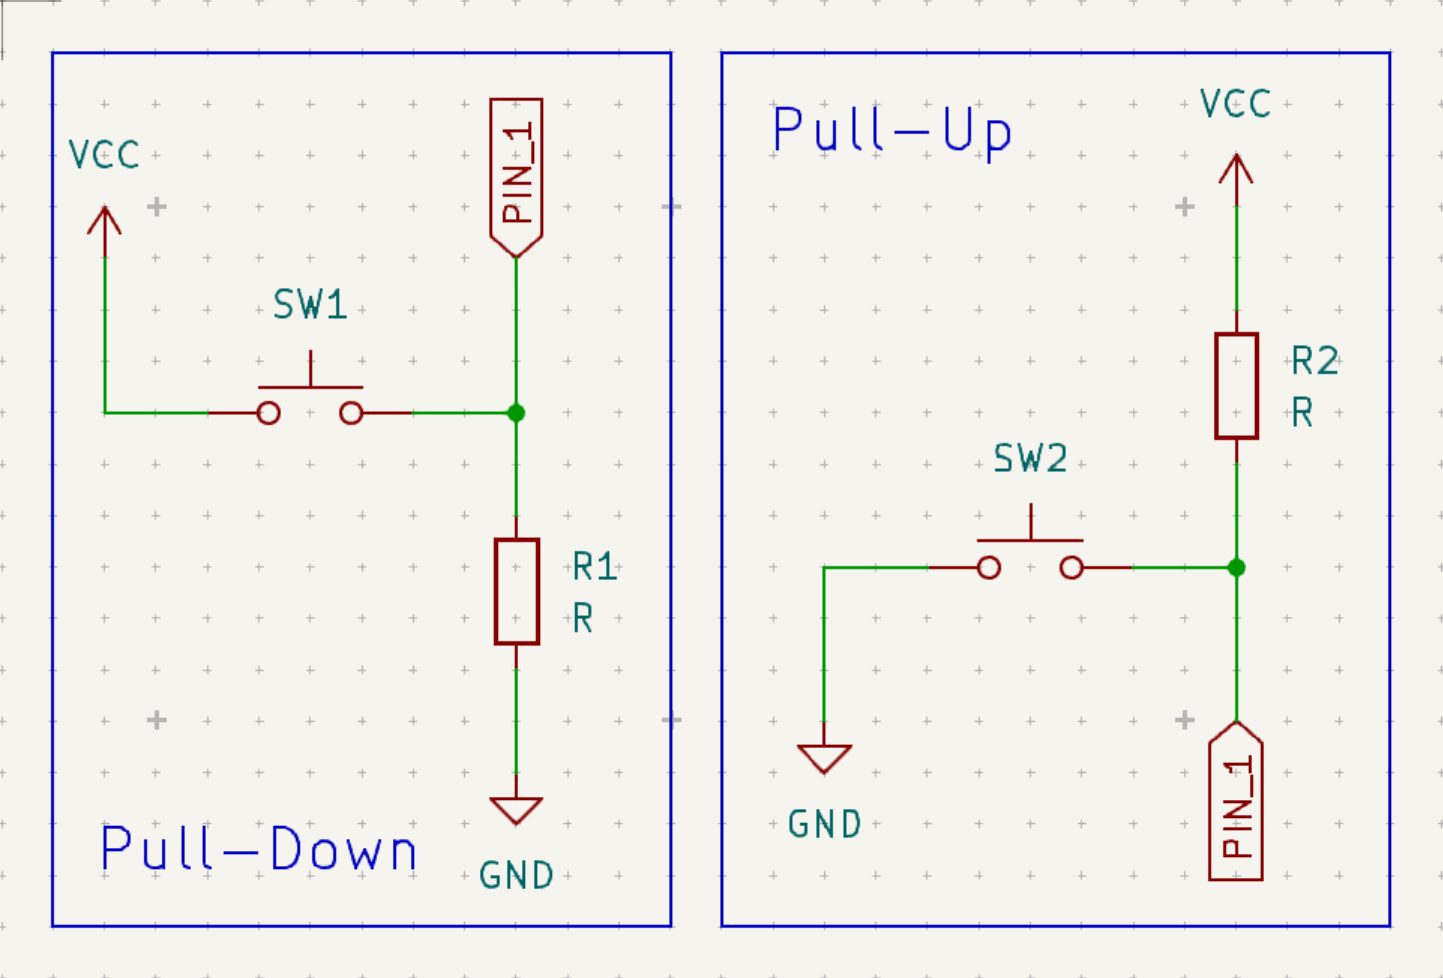
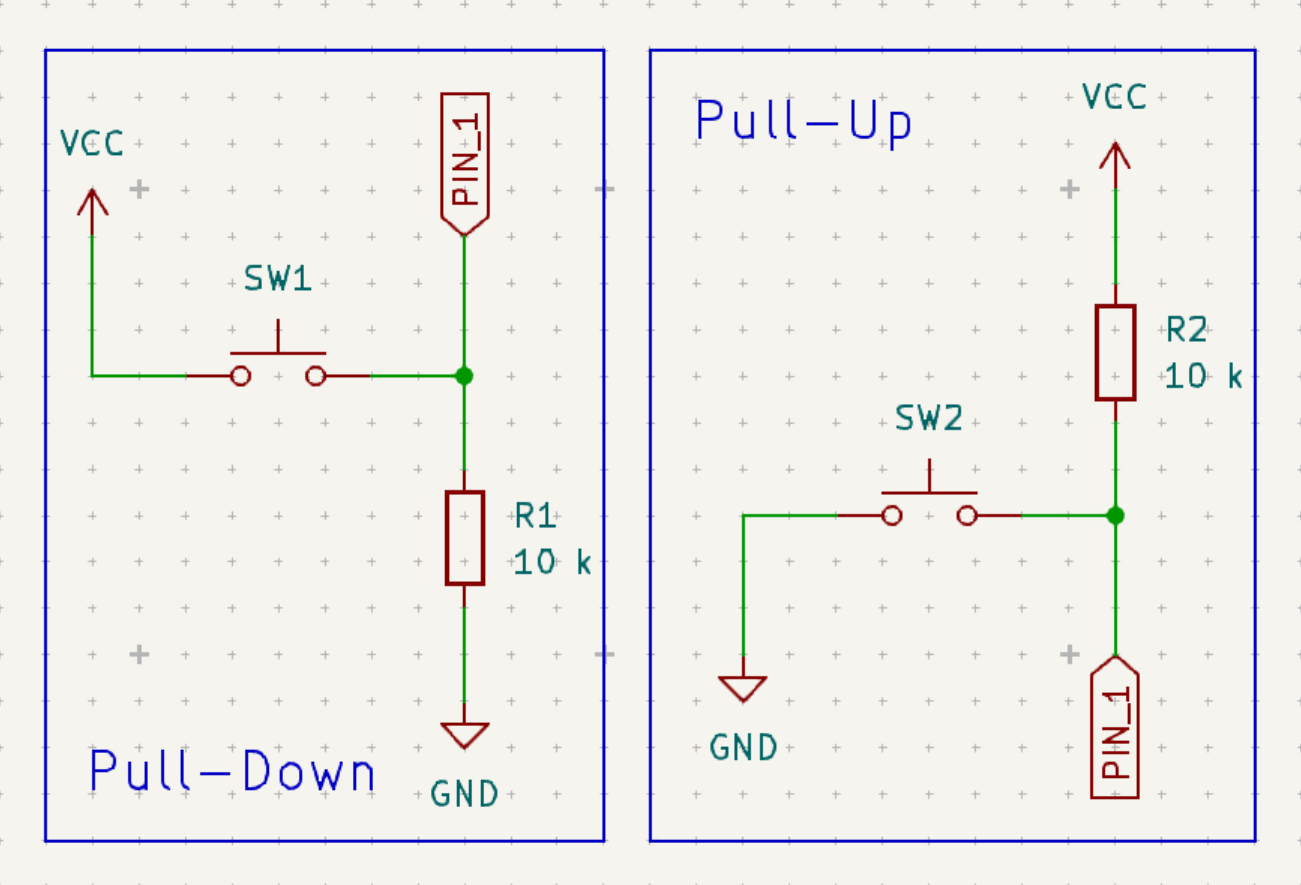
Added values to pull-up pull-down resistors

diff --git a/Termin_2/slides/slides.md b/Termin_2/slides/slides.md
@@ -144,6 +144,8 @@ background-size: 30em
 - Der Pull-Up Widerstand zieht den Pin auf HIGH, wenn nichts angeschlossen ist
 - Der Pull-Down Widerstand zieht den Pin auf LOW, wenn nichts angeschlossen ist
 
+> Meistens Widerstände mit ca. 10 kΩ
+
 </v-clicks>
 
 <!--
